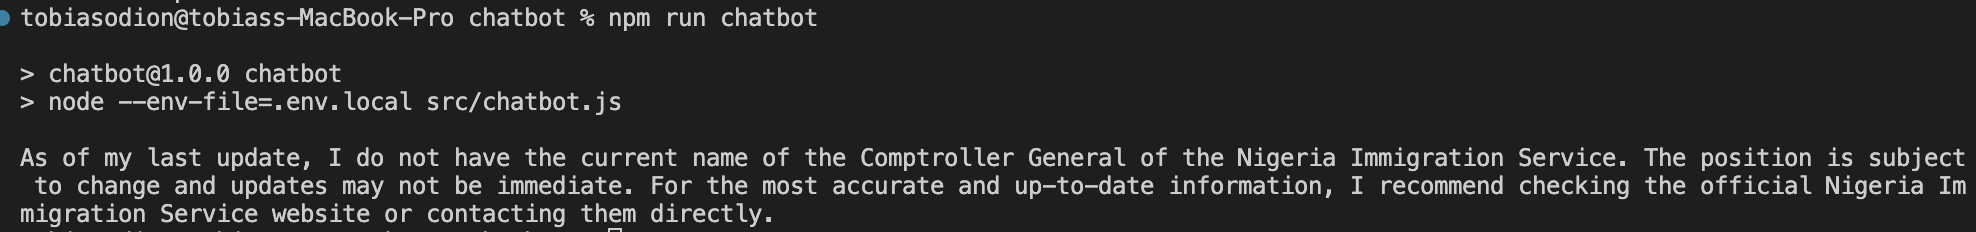
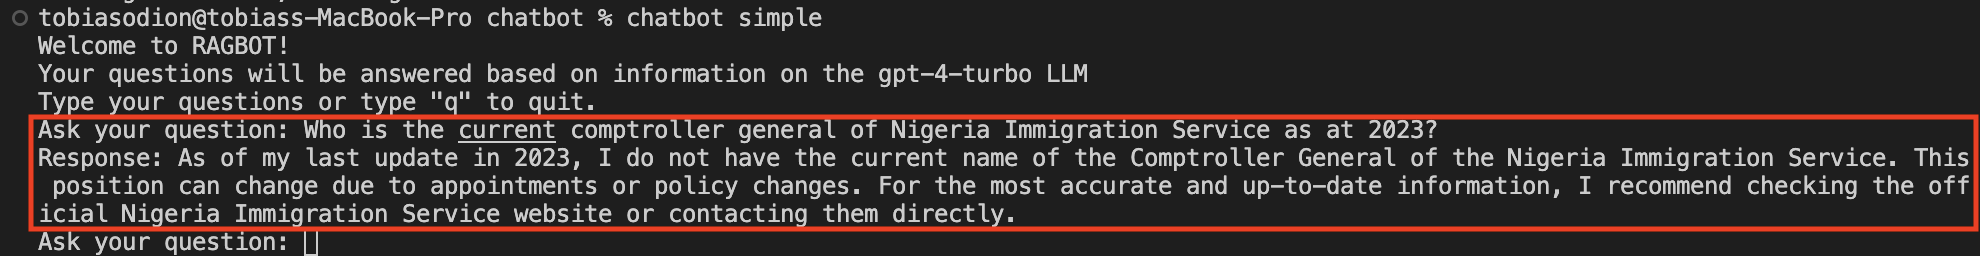
Update README

Changed region(s): [[0.0, 0.2414, 1.0, 0.9957], [0.0, 0.0302, 0.4322, 0.2112], [0.1544, 0.9957, 0.1852, 1.0]]

diff --git a/src/command.js b/src/command.js
@@ -4,8 +4,8 @@ import { indexDocuments } from "./indexer.js";
 import { askQuestion } from "./chatbot.js";
 import { writeToFile } from "./utils/file.js";
 import { crawlWebsite } from "./crawler.js";
-import { createChain } from "./chain.js";
-import { model } from "./aiConfig.js";
+import { createChain } from "./llm/chain.js";
+import { model } from "./llm/aiConfig.js";
 
 yargs(hideBin(process.argv))
   .command(

diff --git a/README.md b/README.md
@@ -1,26 +1,24 @@
 # Overview
 
-A chatbot that uses RAG architecture for improving and adapting LLM to specific use cases. This CLI chatbot app allows users to ask questions about a website which is provided as context. This chatbot empowers users to retrieve information from a website that may not have been in the training dataset of open-source LLMs.
+A CLI chatbot that uses RAG architecture for improving and adapting LLM to specific context. It allows users to ask questions and get response directly from open-source LLMs(OpenAI, MistralAI etc.) or from the information on a website which is provided as context using the RAG architecture. This chatbot empowers users to retrieve information from a website that may not have been in the training dataset of open-source LLMs or get current information from a website that may have been updated after the open-source LLM was trained.
 
-## Use case
+## Use cases
 
-### Without RAG
+### Without RAG - Response from Open source LLMs
 
-Asking the OpenAI GPT LLM about the Nigerian Immigration Service(Question: _Who is the current comptroller general of Nigeria Immigration Service?_) as is the case of the simple chatbot script `chatbot.js` by running the script `npm run chatbot` will not give useful information as shown below:
+Asking the OpenAI GPT LLM about the Nigerian Immigration Service(Question: _Who is the current comptroller general of Nigeria Immigration Service as at 2023?_) by running the script `chatbot simple` will give some outdated result as shown below:
 
-![alt text](documentation/result.png)
+![alt text](result.png)
 
-### With RAG
+### With RAG - Response from website provided as context
 
-By using the CLI website chatbot which extends the OpenAI GPT LLM with RAG we get a more useful result. We can use this chatbot by running `chatbot start https://immigration.gov.ng/current-and-past-leaders-of-the-nis/` and asking the same question - _Who is the current comptroller general of Nigeria Immigration Service?_. This gives a more useful result as shown below:
+By using the CLI website chatbot which extends the OpenAI GPT LLM with RAG we get a more useful result. We can use this chatbot by running `chatbot rag https://immigration.gov.ng/current-and-past-leaders-of-the-nis/` and asking the same question - _Who is the current comptroller general of Nigeria Immigration Service as at 2023?_. This gives a more current result as shown below:
 
 ![alt text](documentation/result_with_rag.png)
 
-**NB:** The initialization of the chatbot can be seen in the image. During the initialization, the bot crawls the website to the provided depth(default = 0) and indexes the data from the crawled links to an In-Memory vector store which the bot uses as the context in responding to questions.
-
 #### How it works
 
-The chatbot crawls the given URL and indexes the content which it uses as context to respond to users' questions. Hence, the chatbot tries to generate responses from the provided context. The more information within the context(pages crawled by the chatbot), the more likely the model will generate a response. However, the quality and accuracy of these responses are subject to the quality and accuracy of information on the website which serves as context for the chatbot under the RAG architecture.
+The chatbot crawls the given URL to the provided depth(default = 0) and indexes the content of the website which it uses as context to respond to users' questions. Hence, the chatbot tries to generate responses from the provided website context. The more information within the context(pages crawled by the chatbot), the more likely the model will generate a response. However, the quality and accuracy of these responses are subject to the quality and accuracy of information on the website which serves as context for the chatbot under the RAG architecture.
 
 ## To run Locally
 
@@ -35,14 +33,16 @@ The chatbot crawls the given URL and indexes the content which it uses as contex
 - create a copy of the .env.example file by running `cp .env.example .env.local` in terminal
 - update the env variables with the required keys in the `.env.local` file created in the previous step.
 - Run the simple version by running `npm run chatbot`
-- Start the chatbot by running `chatbot start <url>`
-- Configure the crawl depth by using the `--depth` parameter by running `chatbot start <url> --depth <number>`. The default crawl depth is 0
+- See the available commands for the app by running `chatbot --help`
+  - Start the chatbot by running `chatbot simple`
+  - Start the chatbot with a website context by running `chatbot rag <url>`
+  - For running the chatbot with context, you can configure the crawl depth by using the `--depth` option by running `chatbot rag <url> --depth <number>`. The default crawl depth is 0
 
 **NB:**
 
 - Be careful when changing the default crawl depth to protect the memory because the crawled website contents are indexed In-Memory. Hence, the higher the crawl depth the more the memory that will be needed to index the website data.
 - I will recommend a max crawl depth of 2 to be on the safe side. However, you must apply caution and take into consideration the memory of your machine.
-- This project is intended for learning purposes where the crawl depth(by extension data volume) is expected to be as minimal as possible. If you wish to use in a production environment where the data volume is expected to be high, kindly use a third-party VectorDB service provider(e.g [qdrant](https://qdrant.tech/), [pinecone](https://www.pinecone.io/),[mongodb](https://www.mongodb.com/docs/atlas/atlas-vector-search/tutorials/vector-search-quick-start/#objectives))
+- This project is intended for learning purposes where the crawl depth(by extension data volume) is expected to be small. If you wish to use in a production environment where the data volume is expected to be high, kindly use a third-party VectorDB service provider(e.g [qdrant](https://qdrant.tech/), [pinecone](https://www.pinecone.io/),[mongodb](https://www.mongodb.com/docs/atlas/atlas-vector-search/tutorials/vector-search-quick-start/#objectives))
 
 References
 [Langchain documentation](https://js.langchain.com/docs/get_started/quickstart)
@@ -51,4 +51,4 @@ References
 [RAG Article](https://medium.com/@bijit211987/rag-vs-vectordb-2c8cb3e0ee52)
 [VectorDB Service](https://qdrant.tech/)
 
-Watch Recording [here](https://drive.google.com/file/d/1goNpRpVwbPUdBUx5CHHMY8kBMS9SW05I/view?usp=drive_link)
+This project started out from RAG tutorial I facilitated. Watch the tutorial recording [here](https://drive.google.com/file/d/1goNpRpVwbPUdBUx5CHHMY8kBMS9SW05I/view?usp=drive_link)
